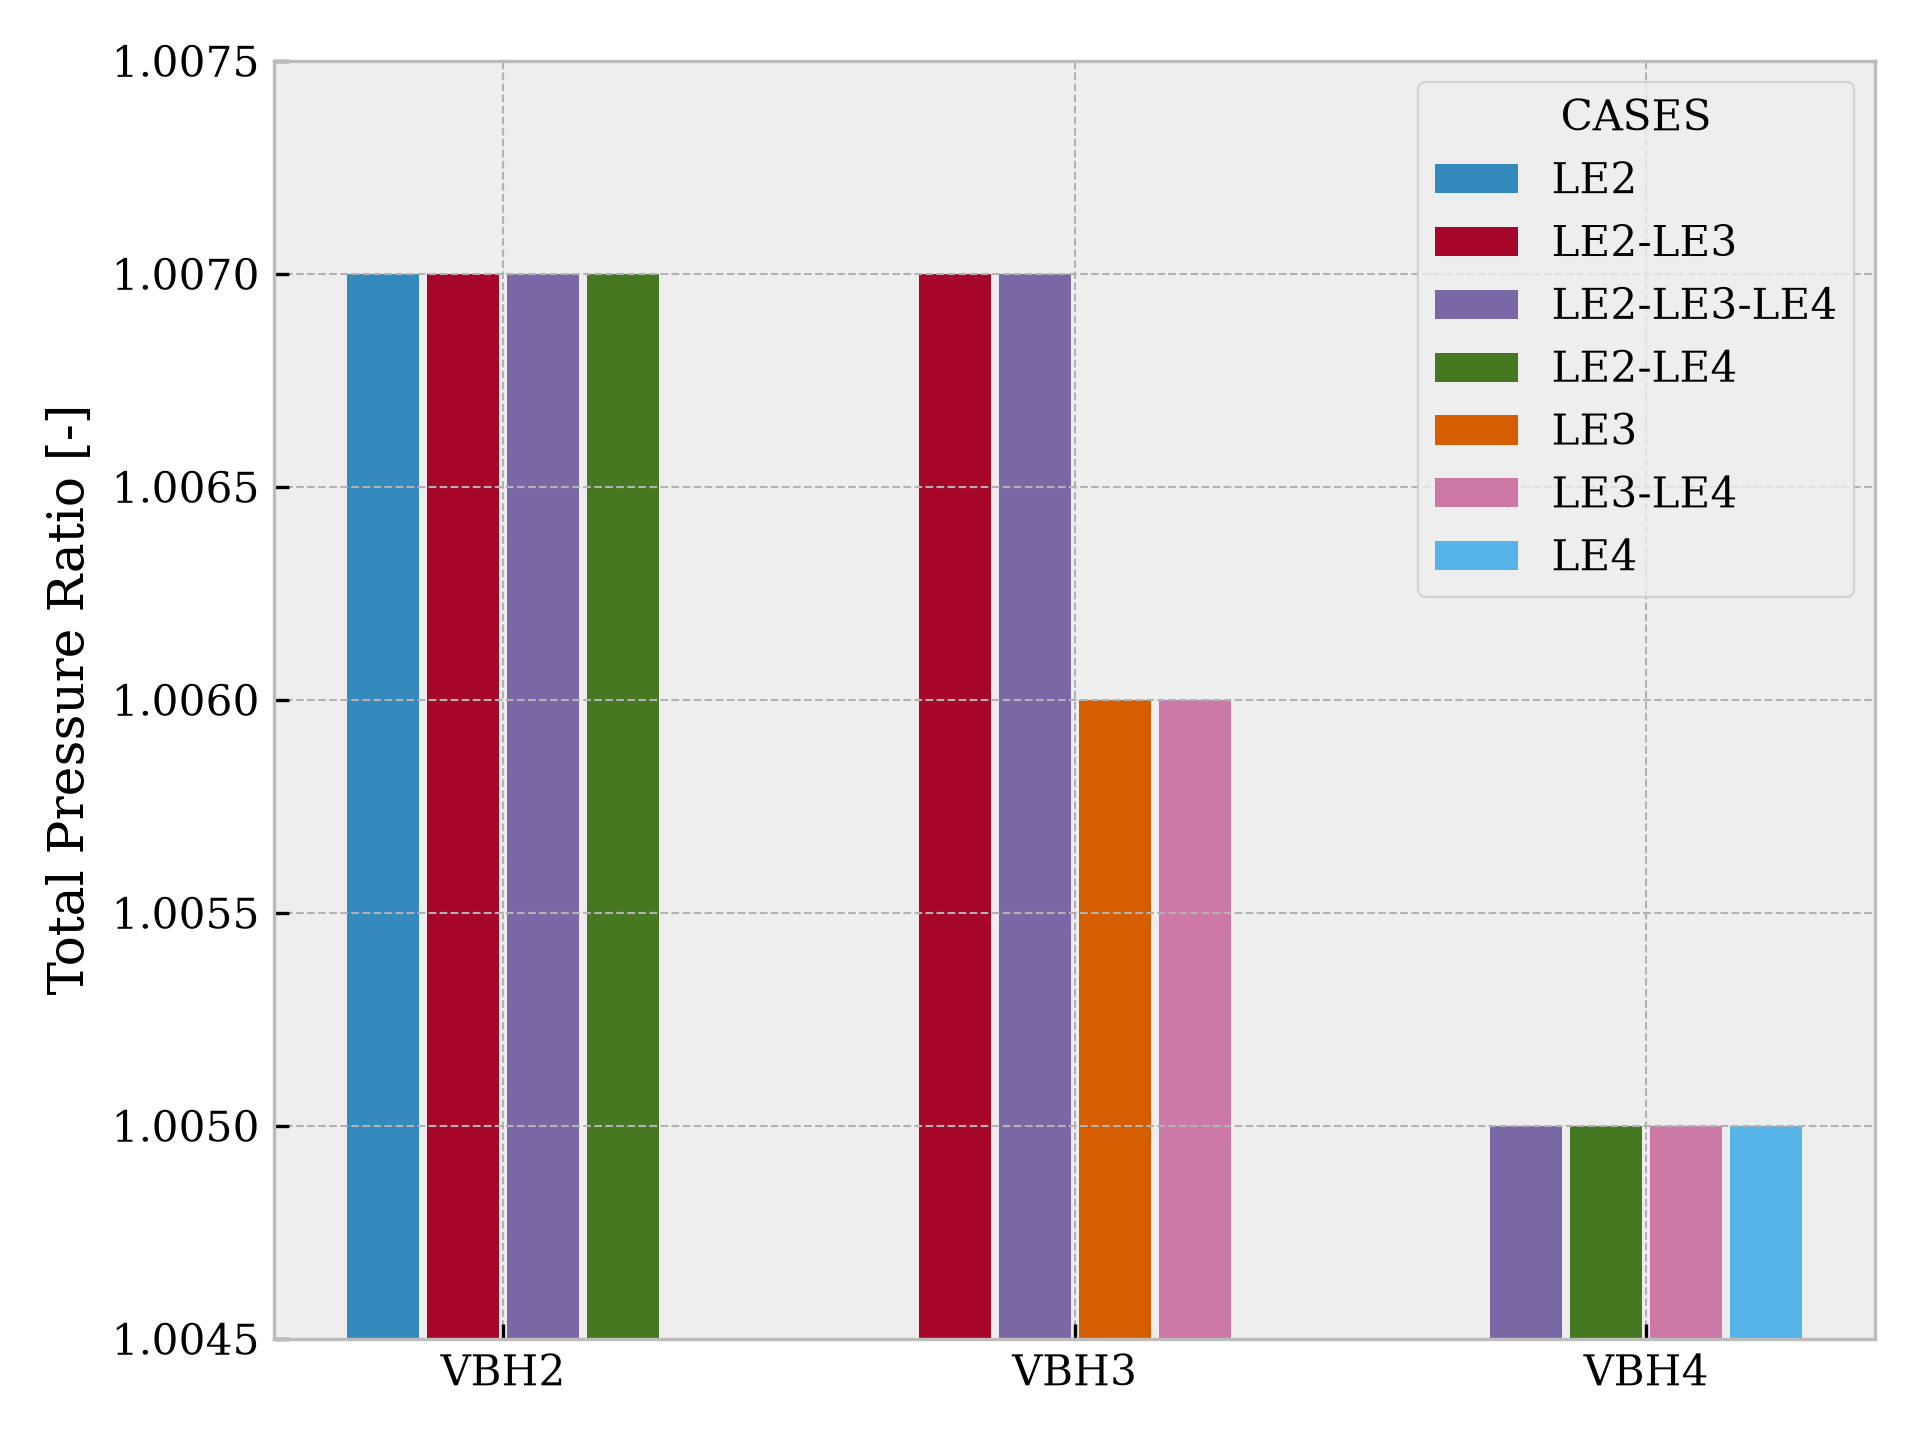
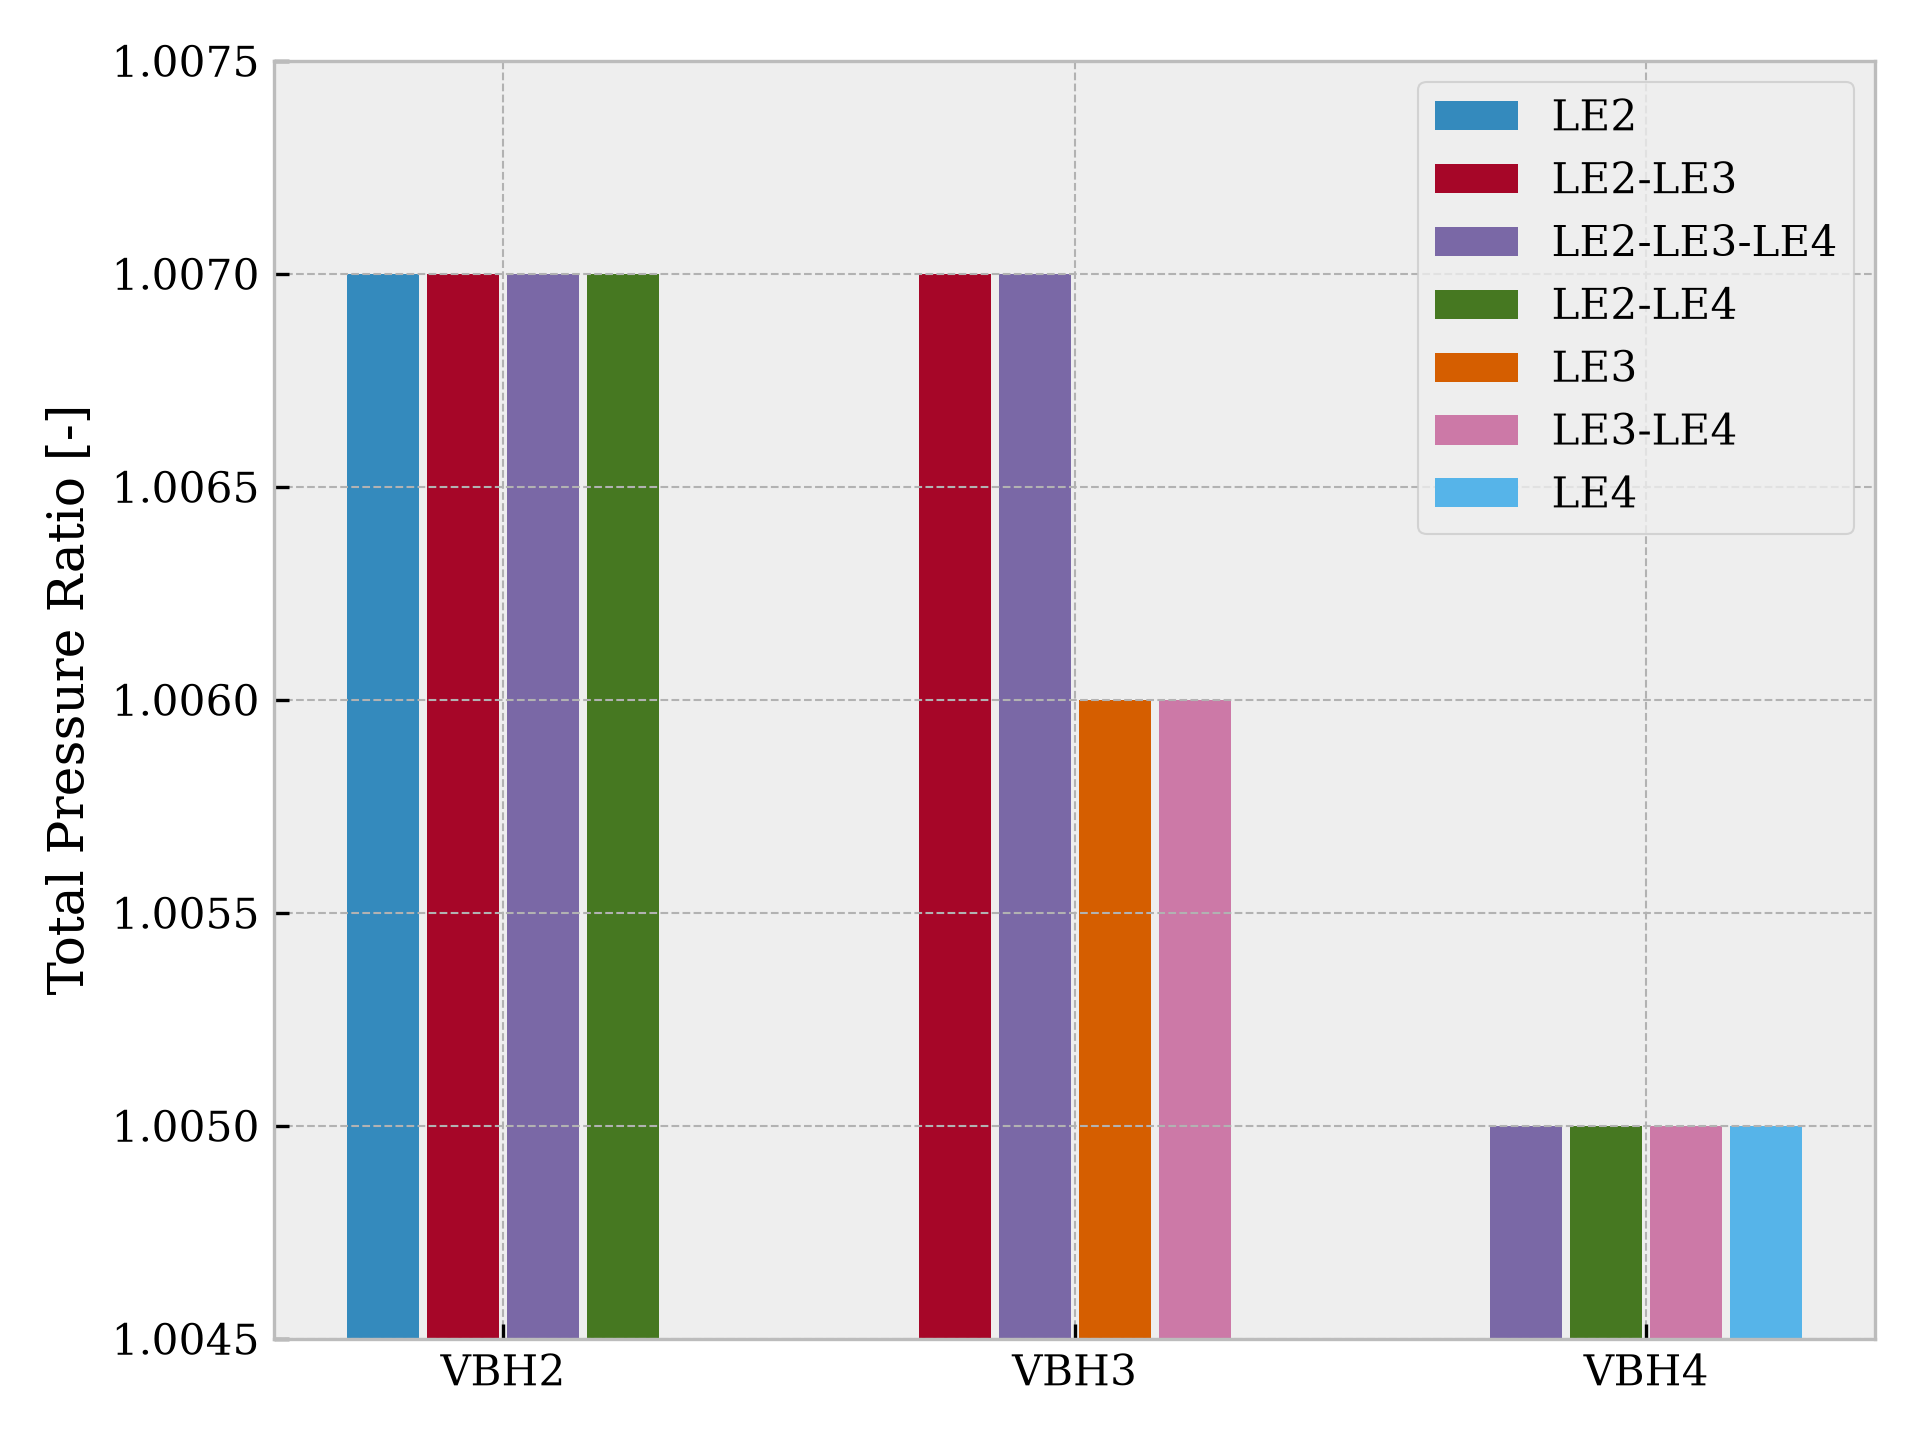
New plots

Changed region(s): [[0.75, 0.0625, 0.9062, 0.4062], [0.875, 0.1562, 0.9688, 0.2188]]

diff --git a/bar_chart.py b/bar_chart.py
@@ -224,7 +224,7 @@ def _plot_grouped_vbh_bars(
     ax.set_xticks(group_centers)
     ax.set_xticklabels(vbh_labels)
     ax.set_ylabel(ylabel)
-    ax.legend(handles=legend_handles, title="CASES", loc="best", frameon=True)
+    ax.legend(handles=legend_handles, loc="best", frameon=True)
 
     fig.tight_layout()
     plt.show()
@@ -284,7 +284,7 @@ def _plot_efficiency_by_case(
     ax.set_xticks(x_pos)
     ax.set_xticklabels(valid_cases, rotation=20, ha="right")
     ax.set_ylabel("Isentropic Efficiency [%]")
-    ax.legend(handles=handles_with_ref, title="CASES", loc="best", frameon=True)
+    ax.legend(handles=handles_with_ref, loc="best", frameon=True)
 
     fig.tight_layout()
     plt.show()
